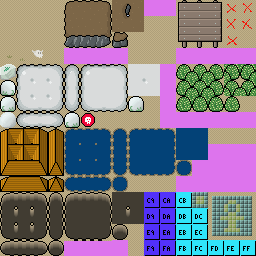
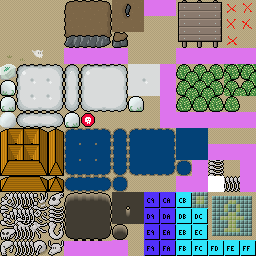
Bone graphics in region 6

Changed region(s): [[0.0, 0.75, 0.25, 1.0], [0.8125, 0.625, 0.9375, 0.75]]

diff --git a/src/main/ps_developer_setup.h b/src/main/ps_developer_setup.h
@@ -8,7 +8,7 @@
 /* Declare the heroes you want. This also establishes the party size.
  * Available: SWORDSMAN, ARCHER, GADGETEER, NURSE, WIZARD, VAMPIRE, MARTYR, IMMORTAL, BOMBER, BALA
  */
-#define PS_TEST_GAME_PARTY BOMBER,VAMPIRE
+#define PS_TEST_GAME_PARTY WIZARD
 
 /* Declare the scenario generator mode.
  * One of: NORMAL, SELECTED, ALL
@@ -24,11 +24,12 @@
  * Must name at least one blueprint with a HERO POI.
  * Region may be <0 to select randomly.
  */
-#define PS_TEST_BLUEPRINTS  2,134
-#define PS_TEST_REGION      -1
+#define PS_TEST_BLUEPRINTS  2,177
+#define PS_TEST_REGION      6
 
 /* Parameters for ALL mode.
  * (LO>HI) means extend to end of list.
+ * PS_TEST_REGION also applies in this mode.
  */
 #define PS_TEST_BLUEPRINTID_LO    130
 #define PS_TEST_BLUEPRINTID_HI    -1
@@ -69,7 +70,7 @@ static int ps_setup_test_game(struct ps_game *game,struct ps_userconfig *config)
       } break;
 
     case 3: { /* Generate a scenario with every blueprint. */
-        if (ps_game_generate_all_blueprints_test(game,PS_TEST_BLUEPRINTID_LO,PS_TEST_BLUEPRINTID_HI)<0) return -1;
+        if (ps_game_generate_all_blueprints_test(game,PS_TEST_BLUEPRINTID_LO,PS_TEST_BLUEPRINTID_HI,PS_TEST_REGION)<0) return -1;
       } break;
 
     default: {

diff --git a/src/game/ps_game_setup.c b/src/game/ps_game_setup.c
@@ -198,7 +198,7 @@ int _ps_game_generate_test(struct ps_game *game,int regionid,int blueprintid,...
 /* Generate test scenario with all blueprints.
  */
  
-int ps_game_generate_all_blueprints_test(struct ps_game *game,int blueprintidlo,int blueprintidhi) {
+int ps_game_generate_all_blueprints_test(struct ps_game *game,int blueprintidlo,int blueprintidhi,int regionid) {
   if (!game) return -1;
   if (!game->difficulty) game->difficulty=4;
   if (!game->length) game->length=4;
@@ -218,6 +218,7 @@ int ps_game_generate_all_blueprints_test(struct ps_game *game,int blueprintidlo,
   scgen->playerc=game->playerc;
   scgen->difficulty=game->difficulty;
   scgen->length=game->length;
+  scgen->regionid=regionid;
 
   scgen->skills=0;
   int i; for (i=0;i<game->playerc;i++) scgen->skills|=game->playerv[i]->plrdef->skills;

diff --git a/src/game/ps_game.h b/src/game/ps_game.h
@@ -117,7 +117,7 @@ int _ps_game_generate_test(struct ps_game *game,int regionid,int blueprintid,...
 /* Another test option.
  * Generate a scenario that uses every blueprint, for exhaustive testing.
  */
-int ps_game_generate_all_blueprints_test(struct ps_game *game,int blueprintidlo,int blueprintidhi);
+int ps_game_generate_all_blueprints_test(struct ps_game *game,int blueprintidlo,int blueprintidhi,int regionid);
 
 /* Broad controls of game state during play.
  *****************************************************************************/
